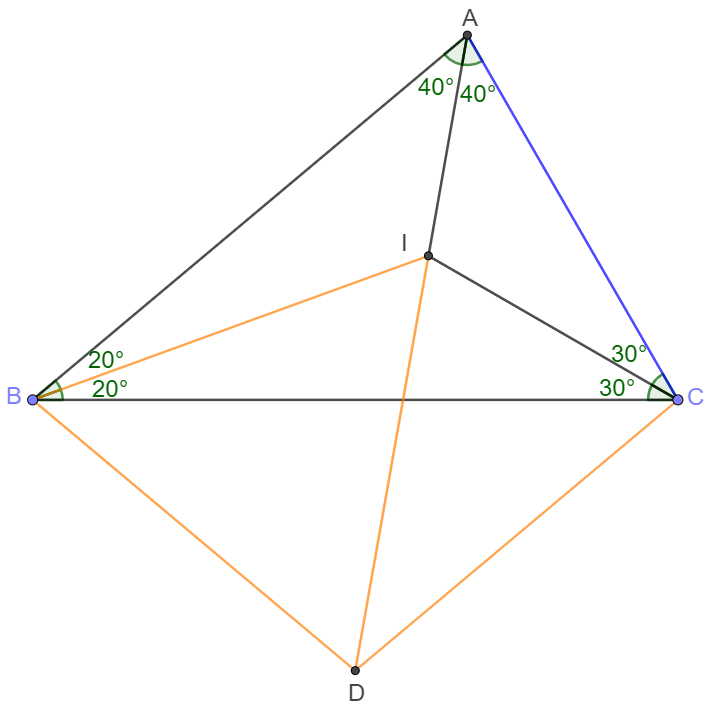
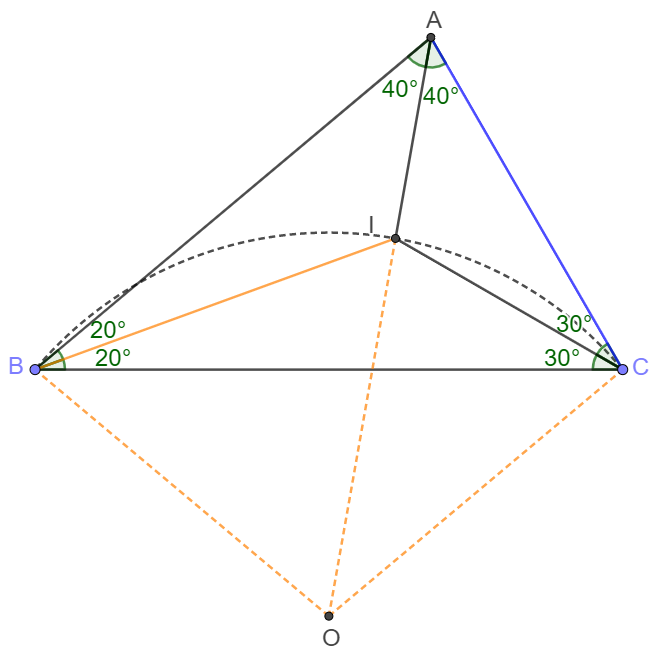
Add posts

diff --git a/_posts/2021-04-01-geometry-problems.md b/_posts/2021-04-01-geometry-problems.md
@@ -40,19 +40,19 @@ $\implies O, D, A$ collinear $\implies \angle{DAC}=\angle{OAC}=\boxed{60^{\circ}
 
 **Prove:**
 
-(1) Let $D$ be the center of circumcircle of $\triangle{BIC} \implies DB=DI=DC$
+(1) Let $D$ be the center of circumcircle of $\triangle{BIC} \implies OB=OI=OC$
 
 ![image-20210402020808023](/assets/images/2021-04/image-20210402020808023.png){:class="image--xl"}
 
-$\angle{BCI}=30^{\circ} \implies \angle{BDI}=60^{\circ} \implies \triangle{BDI} $ is equilateral
+$\angle{BCI}=30^{\circ} \implies \angle{BOI}=60^{\circ} \implies \triangle{BOI} $ is equilateral
 
-$\implies \angle{DBI}=60^{\circ} \implies \angle{DBC}=40^{\circ} \implies \angle{DCB}=40^{\circ}$
+$\implies \angle{OBI}=60^{\circ} \implies \angle{OBC}=40^{\circ} \implies \angle{OCB}=40^{\circ}$
 
-$\implies \angle{DCI}=70^{\circ} \implies \angle{CDI}=180^{\circ}-2*\angle{DCI}=40^{\circ}$
+$\implies \angle{OCI}=70^{\circ} \implies \angle{COI}=180^{\circ}-2*\angle{OCI}=40^{\circ}$
 
-$\implies \angle{CDI}+\angle{DCB}+\angle{ACB}+\angle{CAI}=40^{\circ}+40^{\circ}+60^{\circ}+40^{\circ}=180^{\circ}$
+$\implies \angle{COI}+\angle{OCB}+\angle{ACB}+\angle{CAI}=40^{\circ}+40^{\circ}+60^{\circ}+40^{\circ}=180^{\circ}$
 
-$\implies A, I, D $ is collinear $\implies \angle{CDA}=\angle{DAC}=40^{\circ} \implies AC=CD=BI \blacksquare$
+$\implies A, I, O $ is collinear $\implies \angle{COA}=\angle{OAC}=40^{\circ} \implies AC=CO=BI \blacksquare$
 
 (2)
 
